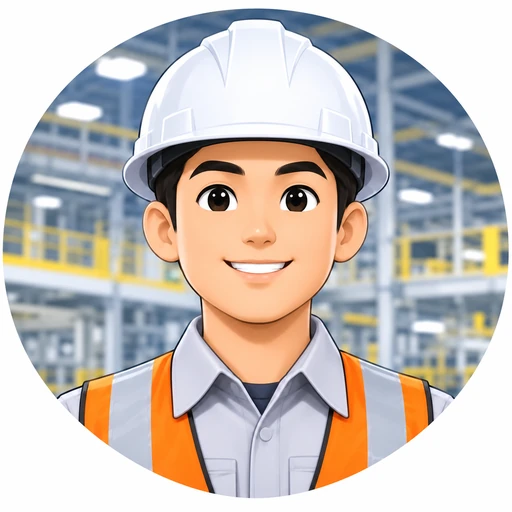
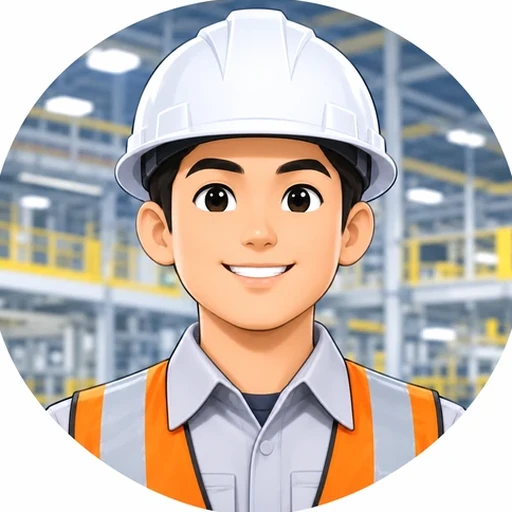
Login: ikon tamu dipotong pas ke lingkaran
Sisi luar foto masih menyisakan putih 8-13 px sehingga tampak celah di dalam border. Gambar dipotong ke dalam lingkaran lalu diperbesar ke 512x512, jadi isi foto mengisi penuh lingkaran tanpa celah.

diff --git a/index.html b/index.html
@@ -596,7 +596,7 @@ html.dark ::-webkit-scrollbar-thumb {
     <!-- Panel Guest -->
     <div id="tvcGuestCard" style="flex:1 1 300px;max-width:340px;background:rgba(255,255,255,.05);border:1px solid rgba(255,255,255,.4);border-radius:16px;padding:24px;box-shadow:0 20px 60px rgba(0,0,0,.35);display:flex;flex-direction:column">
       <div style="display:flex;flex-direction:column;align-items:center;gap:8px;text-align:center">
-        <img src="tamu.webp" alt="Ikon tamu" style="width:136px;height:136px;border-radius:50%;object-fit:cover;background:var(--surface-container-high);border:1px solid var(--outline-variant)">
+        <img src="tamu.webp" alt="Ikon tamu" style="display:block;width:136px;height:136px;border-radius:50%;object-fit:cover;padding:0;background:var(--surface-container-high);border:1px solid var(--outline-variant)">
         <div style="font-size:20px;font-weight:700;font-family:'Futura','Futura PT','Century Gothic',sans-serif;color:var(--primary);line-height:1.1;letter-spacing:.04em;">MODE TAMU</div>
         <div style="font-size:13px;color:var(--secondary);">Masukkan password tamu</div>
       </div>
